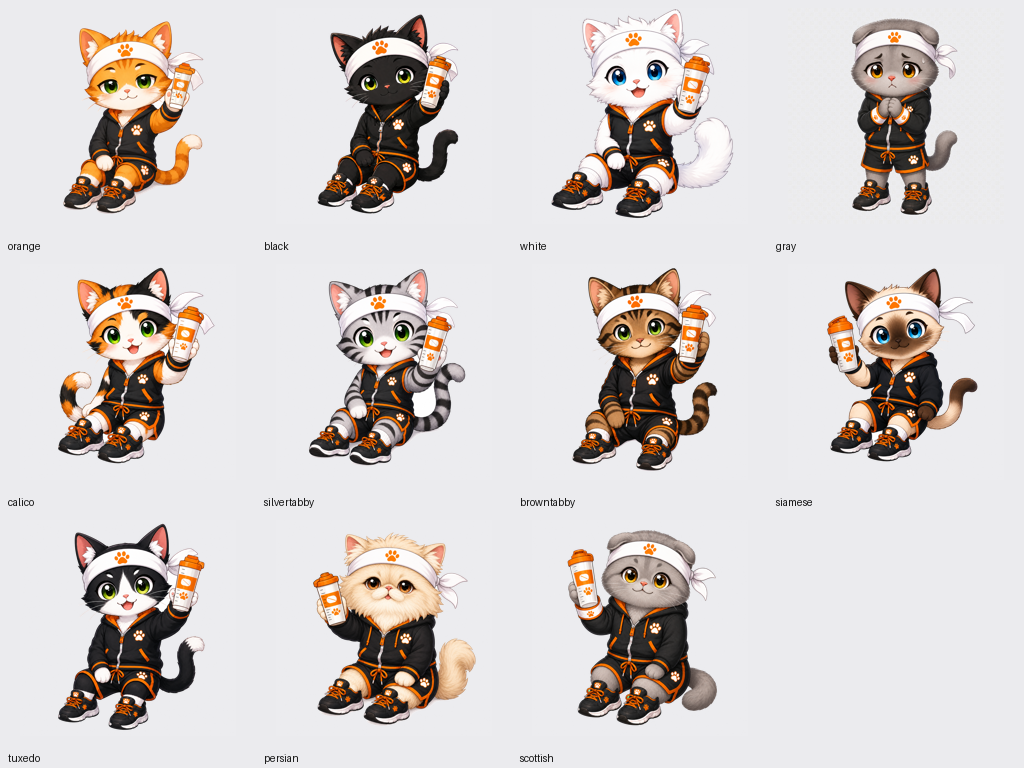
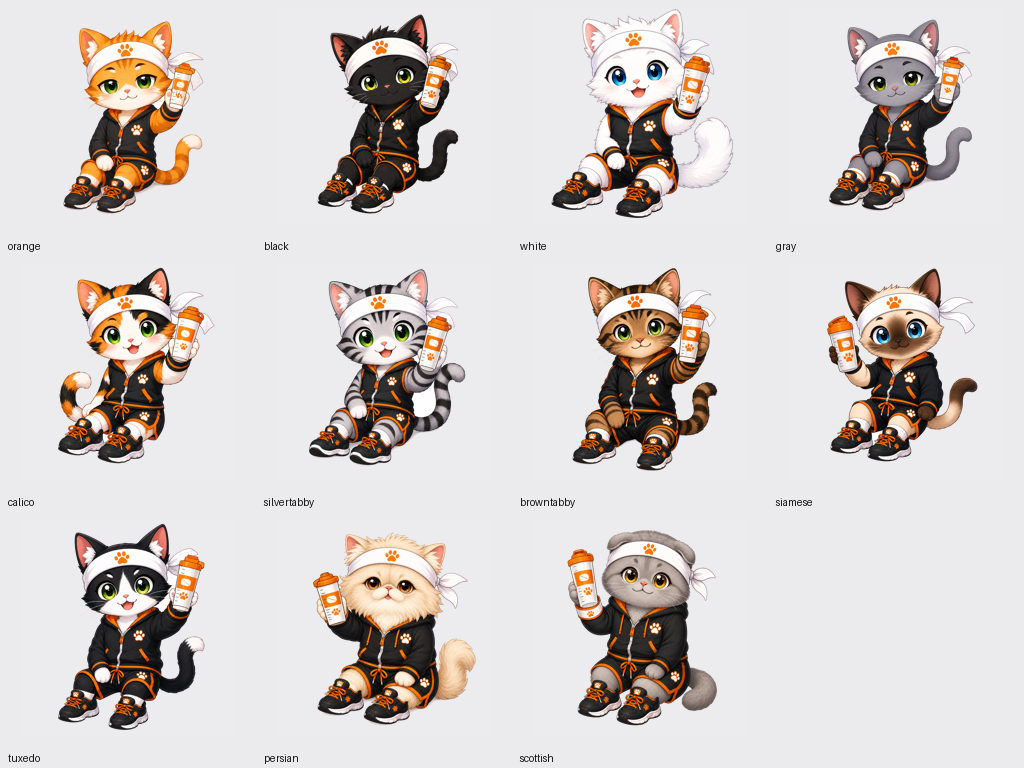
docs(verify): 計画③ 最終セットで3LLM再採点(gray修正後)+ contact sheet差し替え
Codex PASS(ship). Gemthen white/persian除外主張は直接検証で却下(青=目の誤読/透過穴なし/persianは breed正常)。全11種 full-res 個別確認済。

Changed region(s): [[0.8125, 0.0, 0.9688, 0.2812]]

diff --git a/docs/superpowers/verification/2026-06-07-plan3/scores.md b/docs/superpowers/verification/2026-06-07-plan3/scores.md
@@ -16,3 +16,14 @@
 
 ## 実機で見てほしい点
 - 各猫種で記録直後ヒーロー + ホーム未記録の**シェイカー版**表示。記録後は通常の達成猫に戻ること。
+
+## 最終再検証(コミット済みアセットに対して・gray修正後)
+3LLM を**コミット済みの最終セット**(gray=v2)で再採点:
+- **Codex: PASS(ship set)** — gray 3/3/3/3 に改善、exclude なし、全 breed ≥11/12。
+- **Gemini: 9/12** — white と persian の除外を主張。だが具体指摘を直接検証した結果:
+  - white「ヘッドバンドに青い肉球」= 実際は**オレンジの肉球**で、青はこの白猫の**青い目**の誤読(コンタクトシート縮小由来)。
+  - white「左足に透過欠け」= グレー背景で確認したが**透過穴なし・靴は中実**。
+  - persian「style drift」= ペルシャ本来の**もふもふ・平face**で breed 的に正しい(両LLMとも coloring 3/3)。
+- Claude(自分)が**全11種を full-res で個別確認**(silvertabby/browntabby を含む)→ 柄正確・透過クリーン・青滲み無し・座り+シェイカー保持。
+- 唯一の実欠陥(gray v1=立ちポーズ+シェイカー無し)は検出して再生成済み。
+→ 結論: **全11種で出荷可**(Codex PASS + 直接検証で Gemini の white 指摘は事実誤認、persian は breed 正常)。
